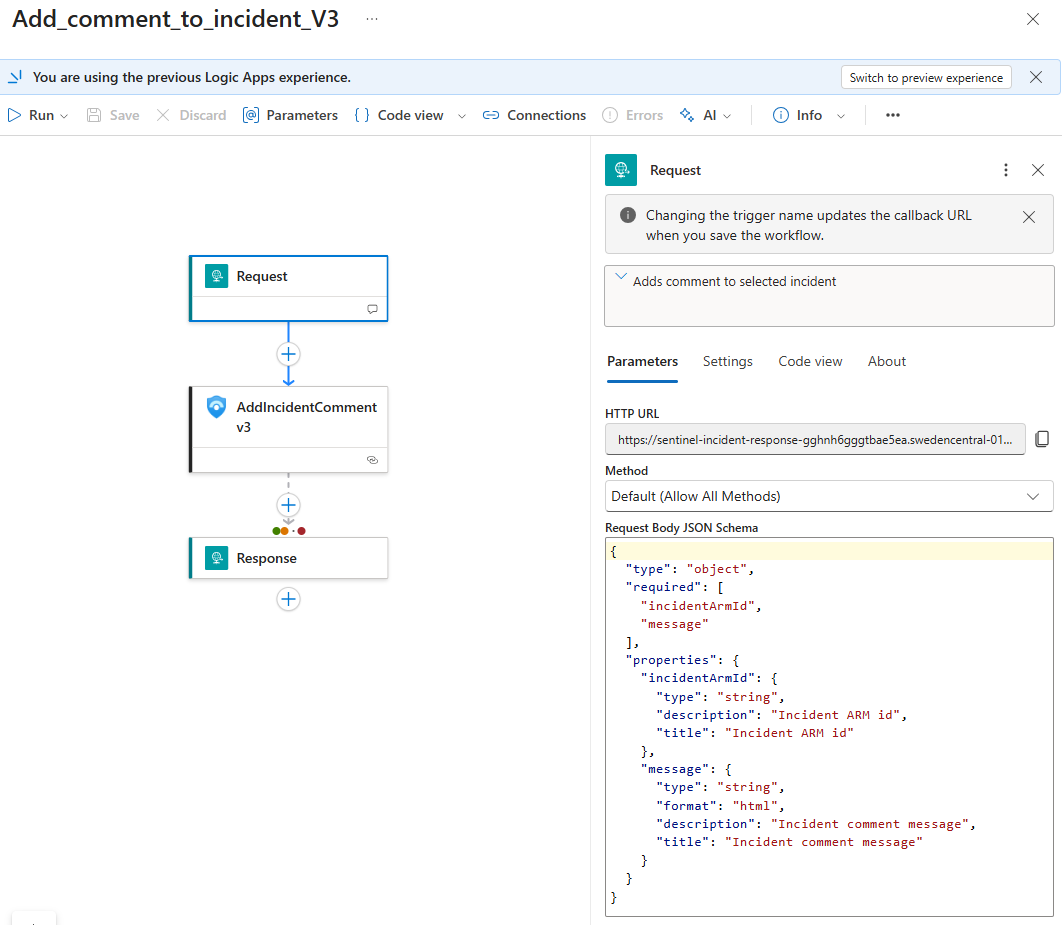
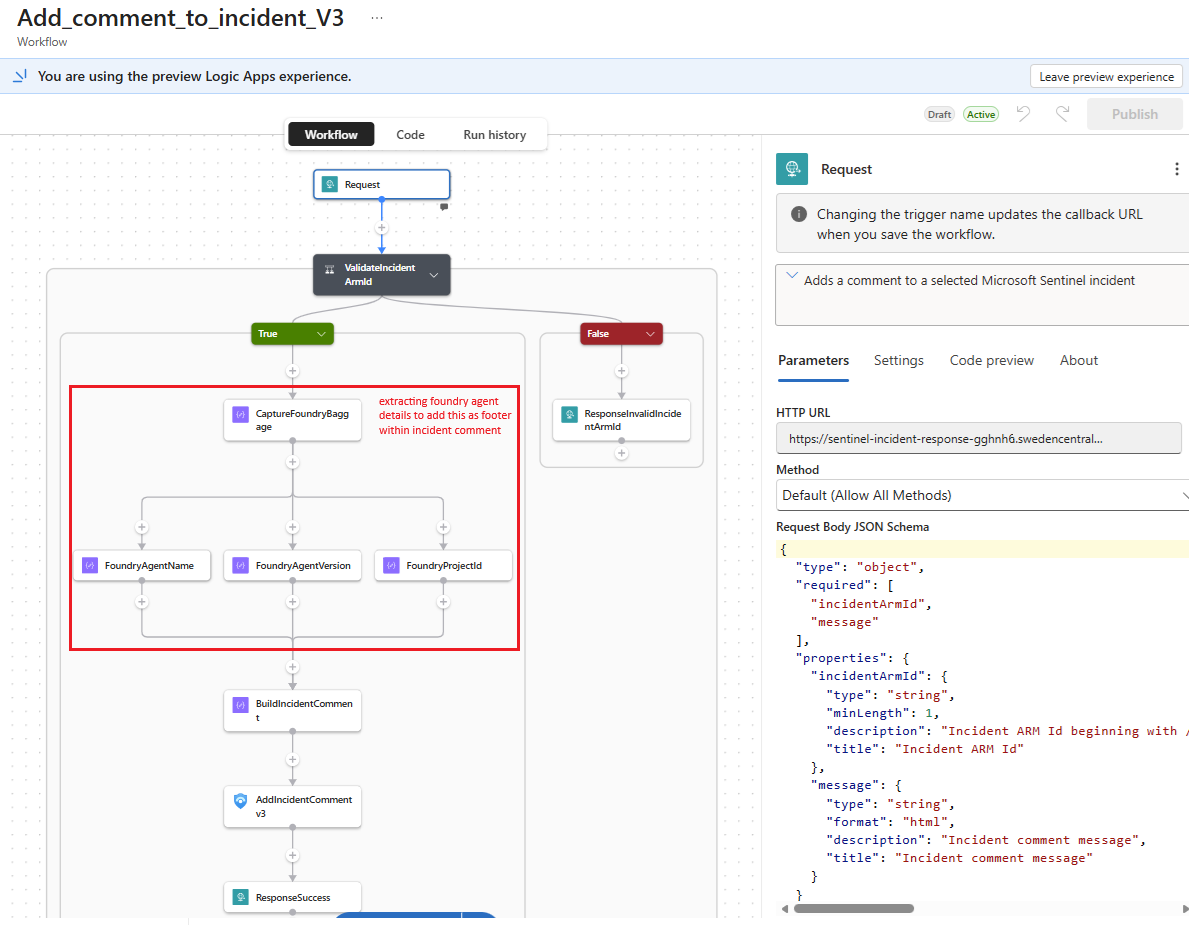
updated post - new images and minor changes

diff --git a/_posts/2026-09-22-agentic-incident-response-foundry-logic-apps-human-approval.md b/_posts/2026-09-22-agentic-incident-response-foundry-logic-apps-human-approval.md
@@ -3,7 +3,7 @@ title: Agentic Incident Response with Foundry and Logic Apps - Human Approval Wi
 author: pit
 date: 2026-09-22
 categories: [blogging, tutorial]
-tags: [azure, foundry, logic-apps, mcp, sentinel, defender, incident-response, human-in-the-loop, agentic-soc]
+tags: [azure, foundry, logic-apps, apim, mcp, sentinel, defender, incident-response, human-in-the-loop, agentic-soc]
 render_with_liquid: false
 ---
 
@@ -32,16 +32,13 @@ I prefer to trigger this agent from Sentinel automation via SOAR playbook, so th
 - `rationale`
 - `correlation ID`
 
-That context needs to be planned in the agent's instructions, tool schemas, and skills.
+That context needs to be planned in the agent's instructions, tool schemas, and skills. Foundry routines currently support:
 
-The portal itself offers 4 trigger choices. Underneath, these are three types: recurring schedule, one-time timer, and external event.
+- recurring or one-time schedules
+- GitHub issue events
+- Teams channel messages.
 
-| Portal choice | What it does |
-| --- | --- |
-| Recurring (`schedule`) | Runs on a five-field cron expression, with a minimum interval of five minutes. |
-| One-time (`timer`) | Runs once at a future time. The routine guide also describes a duration from now, although its current API examples use an explicit future timestamp. |
-| GitHub issue (`github_issue`) | Runs when an issue opens or closes in a watched repository. |
-| Teams channel message (`custom` with `teams` provider) | Runs when a new message lands in a watched channel. |
+The trigger is secondary here; the important part is that every path supplies the same response context.
 
 ## 🧩 Reuse the response layer you already have
 
@@ -139,18 +136,39 @@ https://sentinel-incident-response-demo.swedencentral-01.azurewebsites.net/api/m
 
 Those can you grab from **MCP servers > Copy URL** in your Logic App and attach them to your Foundry agent as custom MCP tools or to a toolbox. The workflow's own HTTP trigger URL is a different endpoint.
 
-Key-based authentication works well for lab environments: generate an MCP API key in the Logic App and send it via the `x-api-key` header from Foundry. For production scenarios, I recommend **Easy Auth** with Microsoft Entra ID on the Standard Logic App to avoid shared secrets and leverage enterprise-grade authentication and authorization.
+Key-based authentication works well for lab environments: generate an MCP API key in the Logic App and send it via the `x-api-key` header from Foundry. For production scenarios, I recommend **Easy Auth** with Microsoft Entra ID on the Standard Logic App to avoid shared secrets and use enterprise authentication and authorization.
 
-There are [two distinct Microsoft Entra authentication options in Foundry](https://learn.microsoft.com/en-us/azure/foundry/agents/how-to/mcp-authentication#microsoft-entra-authentication)
+There are [two distinct Microsoft Entra authentication options in Foundry](https://learn.microsoft.com/en-us/azure/foundry/agents/how-to/mcp-authentication#microsoft-entra-authentication):
 
-- **Agent identity** (`agentic-identity`): This is the preferred option and aligns with the new Foundry agent model, where each agent has its own identity from the very beginning without the requirement to publish. It enables per-agent permissions, least-privilege access, and clear audit trails. The MCP server and its underlying service must support agent identity authentication, and the agent identity requires the appropriate role assignments.
+- **Agent identity** (`agentic-identity`): This is the preferred option when you need per-agent permissions and auditability. New-model agents receive a unique identity when they are created, while legacy agents still require the use of the shared project identity.
 - **Project managed identity** (`project-managed-identity`): Use this when multiple agents should share a common identity, when the target service specifically requires a managed identity, or when agent identity authentication is not supported. The project's managed identity must be granted the necessary permissions.
 
-In this approval design I keep 3 identities separate in the design: 
+![Choosing agent identity or project managed identity for MCP authentication in Microsoft Foundry](/assets/img/posts/agentic-incident-response-foundry-logic-apps-human-approval/foundry-agent-identity-or-project-identity-for-mcp-auth.png)
+*The MCP connection authentication setting lets me choose between the agent identity and the project managed identity.*
+
+In this approval design I keep three identities separate:
 
 - the Foundry `agent identity` authenticates to the MCP endpoint
 - the Logic App's `system-assigned managed identity` performs the Sentinel/Defender response actions
 - and the human approver `user identity` supplies the HITL decision.
+
+> ⚠ When the Logic App identity performs the connector action, Sentinel and Defender record that Logic App identity as the native author or requestor. They do not show by default which Foundry agent triggered the workflow. You can correlate the call through Foundry and Logic App audit data, but that does not give the analyst an immediate answer while looking at the incident.
+{: .prompt-warning}
+
+For immediate analyst visibility, the workflow can add a short incident comment with the requesting agent and version, requested action, workflow run, and a correlation ID. I observed the agent details in the `x-ms-foundry-baggage` header on direct Foundry MCP calls. This gives the incident a useful **requested by the agent, approved by the analyst, executed by the Logic App** trail without changing the native execution identity.
+
+I treat that header as descriptive metadata, not authorization evidence: it is not publicly documented as a security contract and must be sanitized before it is shown in an HTML comment. The authenticated identities and platform audit logs remain the source of truth.
+
+With generalized values, the analyst-facing comment footer looks like this:
+
+```text
+Agent request metadata (informational)
+Agent: incident-response-agent
+Agent version: 3
+Foundry project: contoso-agentic-soc@proj-contoso-agentic-soc@AML
+Workflow run: 08580000000000000000000000000CU00
+Client request ID: 00000000-0000-4000-8000-000000000000
+```
 
 > To see how to set up Easy Auth for a Logic Apps MCP server, follow the [Logic Apps MCP guide](https://learn.microsoft.com/en-us/azure/logic-apps/create-model-context-protocol-server-standard#set-up-easy-auth-for-your-mcp-server). 
 {: .prompt-info}
@@ -169,22 +187,33 @@ Then remember the HTTP request trigger requirement. The portal-created connector
 
 With the tools attached, the agent chooses among them based on their descriptions and its instructions. Now it's up to you to provide the right guidance, context and constraints so the agent uses them correctly. For anything high-impact, back that up with approval inside the Logic App, since instructions guide the agent but only the workflow enforces.
 
-## 🤖 New Agent Object Model
+## 🔐 Optional enterprise pattern: govern MCP tools through APIM
 
-When I started working extensively with Foundry agents about six months ago, the identity model was one of the areas that caused the most confusion, especially when combined with MCP authentication. When should I use the shared project identity, and when should I use an agent's own identity?
+For one agent and two MCP servers, I would keep the direct connection shown above. Once response tools are shared across multiple agents or teams, Azure API Management becomes a useful optional gateway in front of the Logic Apps MCP endpoints. Microsoft documents this pattern for [governing existing MCP servers](https://learn.microsoft.com/en-us/azure/api-management/expose-existing-mcp-server), including Logic Apps-based tools.
 
-My first instinct was to use the agent identity, but it didn't work all the time this way. After some troubleshooting, I granted permissions to the project's managed identity instead, which resolved the issue. Later, I discovered that some agents only received their own identity after being published. For SOAR and agentic SOC scenarios, publishing agents is not typically part of the deployment model, so this behavior wasn't immediately obvious.
+APIM provides one caller-facing authentication boundary, rate limits, selected tool exposure, and central telemetry. The controls still remain layered:
 
-> **Fun fact:** This confused me for quite a while. Most of my work focused on hosted agents, but for quick ad hoc testing I often used prompt agents because they were convenient. Eventually, I realized that some of the agents I was testing still used the legacy agent object model, while newer ones were already based on the new model. At one point, I simply assigned permissions to both the per-agent identity and the project managed identity to avoid chasing authentication issues. Not particularly elegant, but it worked and kept me moving forward until I understood what was happening 😅
+- APIM defines the enterprise-approved MCP surface and ingress policy.
+- Foundry's `allowed_tools` limits what a particular agent may select.
+- Logic Apps owns human approval and decides whether the requested action executes.
+
+APIM can authenticate to the backend with its managed identity, while the Logic App identity continues to perform the Sentinel or Defender action. APIM's [MCP telemetry](https://learn.microsoft.com/en-us/azure/api-management/monitor-mcp-servers) adds tool usage, latency, and failure visibility, but it does not replace Foundry traces or Logic App run history. I see this as an enterprise control plane for shared tools, not a requirement for the smaller design in this post.
+
+> Foundry's automatic [AI Gateway routing for MCP tools](https://learn.microsoft.com/en-us/azure/foundry/agents/how-to/tools/governance) is currently preview and applies only to new eligible MCP tools that do not use managed OAuth. Explicit APIM onboarding remains the predictable option for existing Logic Apps MCP endpoints.
 {: .prompt-info}
 
-That mix of legacy and new agent models was exactly what I was missing when I started designing agentic SOC architectures. With the new model, each agent receives its own identity from the outset, allowing multiple autonomous agents to coexist within the same Foundry project while maintaining separate permissions. This enables a true least-privilege approach and I no longer need to create separate projects purely to reduce the blast radius of a shared project identity.
+## 🤖 New Agent Object Model
 
-I am not entirely sure when Microsoft introduced this change to the agent object model to become the new default. I first noticed references to the new experience around April 2026, along with guidance to transition by July 2026. However, I still encountered agents created in July that were based on the legacy model, which added to the confusion when trying to understand the identity requirements across different agent types. Looking back, many of the authentication issues I experienced were not caused by MCP itself, but by the fact that both identity models coexisted during the transition period and I was not aware that there are 2 different agents object models.
+When I started working extensively with Foundry agents about six months ago, the identity model was one of the areas that caused the most confusion, especially together with MCP authentication. When should I use the shared project identity, and when should I use an agent's own identity?
 
-But anyway, the MCP connection types themselves haven't changed. What changed is how an agent gets its identity: a new-model agent gets its own identity at creation, while a legacy agent may keep using the shared project identity until you recreate it. **At the time of writing**, the MCP authentication page still uses the older before/after-publish wording, so check the [migration guidance](https://learn.microsoft.com/en-us/azure/foundry/agents/how-to/migrate-agent-applications) to see which identity your agent actually has.
+My first instinct was to use the agent identity, but that did not work consistently. After some troubleshooting, I granted permissions to the project's managed identity instead, which resolved the issue in those tests. Later, I discovered that some of my agents still used the legacy object model, where unpublished agents shared an identity, while newer agents already had their own identity from creation.
 
-This applies to **prompt agents as well as hosted agents** when they are created through the new agent object model. According to the current [agent configuration guidance](https://learn.microsoft.com/en-us/azure/foundry/agents/how-to/configure-agent), every agent has a stable endpoint from creation. For how the agent's own identity fits in, see [agent identity concepts](https://learn.microsoft.com/en-us/azure/foundry/agents/concepts/agent-identity).
+> **Fun fact:** This confused me for quite a while. Most of my work focused on hosted agents, but for quick ad hoc testing I often used prompt agents because they were convenient. At one point, I simply assigned permissions to both the per-agent identity and the project managed identity to avoid chasing authentication issues. Not particularly elegant, but it worked and kept me moving until I understood that both agent models were present in the same project 😅
+{: .prompt-info}
+
+That mix of legacy and new agents was the missing piece. New-model agents receive a unique Entra agent identity and stable endpoint when they are created, which allows several autonomous agents in one project to have separate permissions. A legacy agent may still use the shared project identity, and Microsoft currently requires recreating it to move to the new model. The [migration guidance](https://learn.microsoft.com/en-us/azure/foundry/agents/how-to/migrate-agent-applications) explains how to identify each type.
+
+The MCP authentication choices themselves have not changed: use the agent identity for separate permissions or the project managed identity for shared access. Before assigning roles, verify both the agent model and the authentication type configured on the MCP connection instead of assuming the identity from the agent type or publication state. This applies to prompt and hosted agents; the [agent identity concepts](https://learn.microsoft.com/en-us/azure/foundry/agents/concepts/agent-identity) page covers the underlying identity flow.
 
 ## ⏳ The approval timeout trap
 
@@ -280,4 +309,4 @@ There is an API route if you need the flexibility now: [Microsoft Graph case man
 
 ## 📝 Conclusion
 
-Logic Apps gave my Foundry agent a practical response layer without a pile of custom MCP code. I could reuse the Sentinel and Defender connectors, keep human approval in the workflow, and let an autonomous agent focus on investigation and choosing the right tool. The small but crucial design detail was returning **approval pending** before waiting for a human — and treating the final action result as a separate event.
+Logic Apps gave my Foundry agent a practical response layer without a pile of custom MCP code. I reused the existing Sentinel and Defender connectors, kept human approval inside the workflow, and let the autonomous agent focus on what it's good at: investigating and picking the right tool. One small design detail made all the difference: the workflow returns **approval pending** right away, before it waits on a human. That gives the agent immediate confirmation that the action was triggered and tells it nothing more is needed from its side for now.
